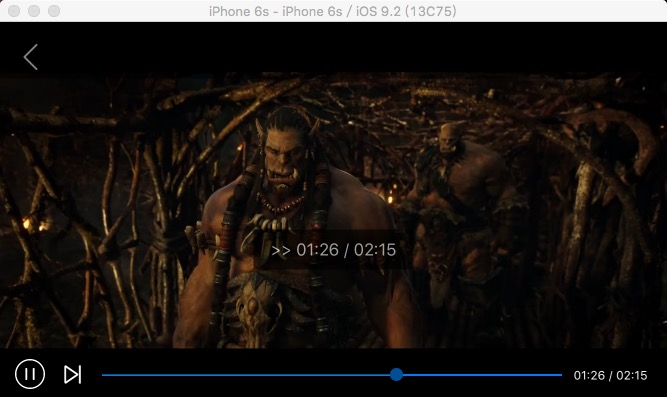
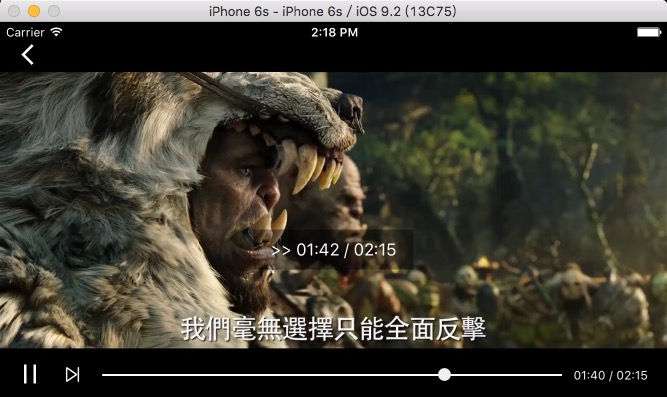
update

diff --git a/Player/MoviePlayerViewController.m b/Player/MoviePlayerViewController.m
@@ -147,35 +147,7 @@ typedef NS_ENUM(NSInteger, PanDirection){
 //    _slider.maximumTrackTintColor = [UIColor blackColor];
 }
 
-#pragma mark - slider滑动事件
-- (void)progressSlider:(UISlider *)slider
-{
-    //拖动改变视频播放进度
-    if (_player.status == AVPlayerStatusReadyToPlay) {
-        
-    //计算出拖动的当前秒数
-    CGFloat total = (CGFloat)_playerItem.duration.value / _playerItem.duration.timescale;
-    
-//    NSLog(@"%f", total);
-    
-    NSInteger dragedSeconds = floorf(total * slider.value);
-    
-//    NSLog(@"dragedSeconds:%ld",dragedSeconds);
-    
-    //转换成CMTime才能给player来控制播放进度
-    
-    CMTime dragedCMTime = CMTimeMake(dragedSeconds, 1);
-    
-    [_player pause];
-    
-    [_player seekToTime:dragedCMTime completionHandler:^(BOOL finish){
-        
-        [_player play];
-        
-    }];
-    
-    }
-}
+
 #pragma mark - 创建UIProgressView
 - (void)createProgress
 {
@@ -184,26 +156,7 @@ typedef NS_ENUM(NSInteger, PanDirection){
     self.progress.trackTintColor = [UIColor grayColor];
     [_backView addSubview:_progress];
 }
-#pragma mark -
-- (void)observeValueForKeyPath:(NSString *)keyPath ofObject:(id)object change:(NSDictionary<NSString *,id> *)change context:(void *)context
-{
-    if ([keyPath isEqualToString:@"loadedTimeRanges"]) {
-        NSTimeInterval timeInterval = [self availableDuration];// 计算缓冲进度
-//        NSLog(@"Time Interval:%f",timeInterval);
-        CMTime duration = self.playerItem.duration;
-        CGFloat totalDuration = CMTimeGetSeconds(duration);
-        [self.progress setProgress:timeInterval / totalDuration animated:NO];
-    }
-}
 
-- (NSTimeInterval)availableDuration {
-    NSArray *loadedTimeRanges = [[_player currentItem] loadedTimeRanges];
-    CMTimeRange timeRange = [loadedTimeRanges.firstObject CMTimeRangeValue];// 获取缓冲区域
-    float startSeconds = CMTimeGetSeconds(timeRange.start);
-    float durationSeconds = CMTimeGetSeconds(timeRange.duration);
-    NSTimeInterval result = startSeconds + durationSeconds;// 计算缓冲总进度
-    return result;
-}
 - (void)customVideoSlider {
     UIGraphicsBeginImageContextWithOptions((CGSize){ .7, .7 }, NO, 0.0f);
     UIImage *transparentImage = UIGraphicsGetImageFromCurrentImageContext();
@@ -211,6 +164,29 @@ typedef NS_ENUM(NSInteger, PanDirection){
     //设置slider
     [self.slider setMinimumTrackImage:transparentImage forState:UIControlStateNormal];
     [self.slider setMaximumTrackImage:transparentImage forState:UIControlStateNormal];
+}
+
+#pragma mark - 播放和下一首按钮
+
+- (void)createButton
+{
+    UIButton *startButton = [UIButton buttonWithType:UIButtonTypeCustom];
+    startButton.frame = CGRectMake(15, _height-38, 30, 30);
+    [self.backView addSubview:startButton];
+    if (_player.rate == 1.0) {
+        [startButton setImage:[UIImage imageNamed:@"kr-video-player-pause"] forState:UIControlStateNormal];
+    } else {
+        [startButton setImage:[UIImage imageNamed:@"kr-video-player-play"] forState:UIControlStateNormal];
+        
+    }
+    [startButton addTarget:self action:@selector(startAction:) forControlEvents:UIControlEventTouchUpInside];
+    
+    UIButton *nextButton = [UIButton buttonWithType:UIButtonTypeCustom];
+    nextButton.frame = CGRectMake(60, _height-35, 25, 25);
+    [self.backView addSubview:nextButton];
+    [nextButton setImage:[UIImage imageNamed:@"nextPlayer.png"] forState:UIControlStateNormal];
+    
+    
 }
 
 #pragma mark - 创建播放时间
@@ -222,8 +198,22 @@ typedef NS_ENUM(NSInteger, PanDirection){
     _currentTimeLabel.font = [UIFont systemFontOfSize:12];
     _currentTimeLabel.text = @"00:00/00:00";
     
-   
+    
 }
+#pragma mark - KVO
+
+- (void)observeValueForKeyPath:(NSString *)keyPath ofObject:(id)object change:(NSDictionary<NSString *,id> *)change context:(void *)context
+{
+    if ([keyPath isEqualToString:@"loadedTimeRanges"]) {
+        NSTimeInterval timeInterval = [self availableDuration];// 计算缓冲进度
+//        NSLog(@"Time Interval:%f",timeInterval);
+        CMTime duration = self.playerItem.duration;
+        CGFloat totalDuration = CMTimeGetSeconds(duration);
+        [self.progress setProgress:timeInterval / totalDuration animated:NO];
+    }
+}
+
+
 #pragma mark - 计时器事件
 - (void)Stack
 {
@@ -255,27 +245,16 @@ typedef NS_ENUM(NSInteger, PanDirection){
     }
     
 }
-#pragma mark - 播放和下一首按钮
-- (void)createButton
-{
-    UIButton *startButton = [UIButton buttonWithType:UIButtonTypeCustom];
-    startButton.frame = CGRectMake(15, _height-38, 30, 30);
-    [self.backView addSubview:startButton];
-    if (_player.rate == 1.0) {
-        [startButton setImage:[UIImage imageNamed:@"kr-video-player-pause"] forState:UIControlStateNormal];
-    } else {
-        [startButton setImage:[UIImage imageNamed:@"kr-video-player-play"] forState:UIControlStateNormal];
 
-    }
-    [startButton addTarget:self action:@selector(startAction:) forControlEvents:UIControlEventTouchUpInside];
-    
-    UIButton *nextButton = [UIButton buttonWithType:UIButtonTypeCustom];
-    nextButton.frame = CGRectMake(60, _height-35, 25, 25);
-    [self.backView addSubview:nextButton];
-    [nextButton setImage:[UIImage imageNamed:@"nextPlayer.png"] forState:UIControlStateNormal];
-    
-    
+- (NSTimeInterval)availableDuration {
+    NSArray *loadedTimeRanges = [[_player currentItem] loadedTimeRanges];
+    CMTimeRange timeRange = [loadedTimeRanges.firstObject CMTimeRangeValue];// 获取缓冲区域
+    float startSeconds = CMTimeGetSeconds(timeRange.start);
+    float durationSeconds = CMTimeGetSeconds(timeRange.duration);
+    NSTimeInterval result = startSeconds + durationSeconds;// 计算缓冲总进度
+    return result;
 }
+
 #pragma mark - 播放暂停按钮方法
 - (void)startAction:(UIButton *)button
 {
@@ -313,14 +292,16 @@ typedef NS_ENUM(NSInteger, PanDirection){
     // 水平滑动显示的进度label
     self.horizontalLabel = [[UILabel alloc]initWithFrame:CGRectMake(_width/2-80, _height / 2 + 20, 160, 40)];
     self.horizontalLabel.textColor = [UIColor whiteColor];
-    self.horizontalLabel.backgroundColor = [UIColor blackColor];
-    self.horizontalLabel.alpha = 0.6;
+    self.horizontalLabel.backgroundColor = [UIColor colorWithPatternImage:[UIImage imageNamed:@"Management_Mask"]];
     self.horizontalLabel.textAlignment = NSTextAlignmentCenter;
     self.horizontalLabel.text = @">> 00:00 / --:--";
     // 一上来先隐藏
     self.horizontalLabel.hidden = YES;
     [self.backView addSubview:_horizontalLabel];
+    
 }
+
+
 #pragma mark - 创建手势
 - (void)createGesture
 {
@@ -337,16 +318,41 @@ typedef NS_ENUM(NSInteger, PanDirection){
         }
     }
 }
+#pragma mark - slider滑动事件
+- (void)progressSlider:(UISlider *)slider
+{
+    //拖动改变视频播放进度
+    if (_player.status == AVPlayerStatusReadyToPlay) {
+        
+        //计算出拖动的当前秒数
+        CGFloat total = (CGFloat)_playerItem.duration.value / _playerItem.duration.timescale;
+        
+        //    NSLog(@"%f", total);
+        
+        NSInteger dragedSeconds = floorf(total * slider.value);
+        
+        //    NSLog(@"dragedSeconds:%ld",dragedSeconds);
+        
+        //转换成CMTime才能给player来控制播放进度
+        
+        CMTime dragedCMTime = CMTimeMake(dragedSeconds, 1);
+        
+        [_player pause];
+        
+        [_player seekToTime:dragedCMTime completionHandler:^(BOOL finish){
+            
+            [_player play];
+            
+        }];
+        
+    }
+}
+
 #pragma mark - 轻拍方法
+
 - (void)tapAction
 {
-    if (_backView.alpha == 1) {
-        [UIView animateWithDuration:0.5 animations:^{
-            
-            _backView.alpha = 0;
-            [[UIApplication sharedApplication] setStatusBarHidden:YES withAnimation:UIStatusBarAnimationFade];
-        }];
-    } else if (_backView.alpha == 0){
+    if (_backView.alpha == 0){
         [UIView animateWithDuration:0.5 animations:^{
             
             _backView.alpha = 1;
@@ -354,7 +360,7 @@ typedef NS_ENUM(NSInteger, PanDirection){
         }];
     }
     if (_backView.alpha == 1) {
-        dispatch_after(dispatch_time(DISPATCH_TIME_NOW, (int64_t)(5 * NSEC_PER_SEC)), dispatch_get_main_queue(), ^{
+        dispatch_after(dispatch_time(DISPATCH_TIME_NOW, (int64_t)(6 * NSEC_PER_SEC)), dispatch_get_main_queue(), ^{
             
             [UIView animateWithDuration:0.5 animations:^{
                 
@@ -366,48 +372,6 @@ typedef NS_ENUM(NSInteger, PanDirection){
 
     }
 }
-#pragma mark - 滑动调整音量大小
-//- (void)touchesBegan:(NSSet<UITouch *> *)touches withEvent:(UIEvent *)event
-//{
-//    if(event.allTouches.count == 1){
-//        //保存当前触摸的位置
-//        CGPoint point = [[touches anyObject] locationInView:self.view];
-//        _startPoint = point;
-//    }
-//}
-//-(void)touchesMoved:(NSSet *)touches withEvent:(UIEvent *)event{
-//    
-//    if(event.allTouches.count == 1){
-//        //计算位移
-//        CGPoint point = [[touches anyObject] locationInView:self.view];
-//        //        float dx = point.x - startPoint.x;
-//        float dy = point.y - _startPoint.y;
-//        int index = (int)dy;
-//        if(index>0){
-//            if(index%5==0){//每10个像素声音减一格
-//                NSLog(@"%.2f",_systemVolume);
-//                if(_systemVolume>0.1){
-//                    _systemVolume = _systemVolume-0.05;
-//                    [_volumeViewSlider setValue:_systemVolume animated:YES];
-//                    [_volumeViewSlider sendActionsForControlEvents:UIControlEventTouchUpInside];
-//                }
-//            }
-//        }else{
-//            if(index%5==0){//每10个像素声音增加一格
-//                NSLog(@"+x ==%d",index);
-//                NSLog(@"%.2f",_systemVolume);
-//                if(_systemVolume>=0 && _systemVolume<1){
-//                    _systemVolume = _systemVolume+0.05;
-//                    [_volumeViewSlider setValue:_systemVolume animated:YES];
-//                    [_volumeViewSlider sendActionsForControlEvents:UIControlEventTouchUpInside];
-//                }
-//            }
-//        }
-//        //亮度调节
-//        //        [UIScreen mainScreen].brightness = (float) dx/self.view.bounds.size.width;
-//    }
-//}
-
 
 - (void)moviePlayDidEnd:(id)sender
 {
@@ -419,7 +383,6 @@ typedef NS_ENUM(NSInteger, PanDirection){
     [_player pause];
     [self dismissViewControllerAnimated:YES completion:^{}];
 }
-
 
 #pragma mark - 平移手势方法
 - (void)panDirection:(UIPanGestureRecognizer *)pan
@@ -475,8 +438,11 @@ typedef NS_ENUM(NSInteger, PanDirection){
             // 比如水平移动结束时，要快进到指定位置，如果这里没有判断，当我们调节音量完之后，会出现屏幕跳动的bug
             switch (panDirection) {
                 case PanDirectionHorizontalMoved:{
-                    // 隐藏视图
-                    self.horizontalLabel.hidden = YES;
+                    dispatch_after(dispatch_time(DISPATCH_TIME_NOW, (int64_t)(1 * NSEC_PER_SEC)), dispatch_get_main_queue(), ^{
+                        
+                        // 隐藏视图
+                        self.horizontalLabel.hidden = YES;
+                    });
                     
                     //转换成CMTime才能给player来控制播放进度
                     
@@ -514,6 +480,8 @@ typedef NS_ENUM(NSInteger, PanDirection){
 {
     // 更改系统的音量
     self.volumeViewSlider.value -= value / 10000; // 越小幅度越小
+    //亮度
+    //[UIScreen mainScreen].brightness = 10;
 }
 
 #pragma mark - pan水平移动的方法

diff --git a/Player/MoviePlayerViewController.h b/Player/MoviePlayerViewController.h
@@ -9,5 +9,6 @@
 #import <UIKit/UIKit.h>
 
 @interface MoviePlayerViewController : UIViewController
+/** 视频URL */
 @property (nonatomic, copy) NSString *videoURL;
 @end
